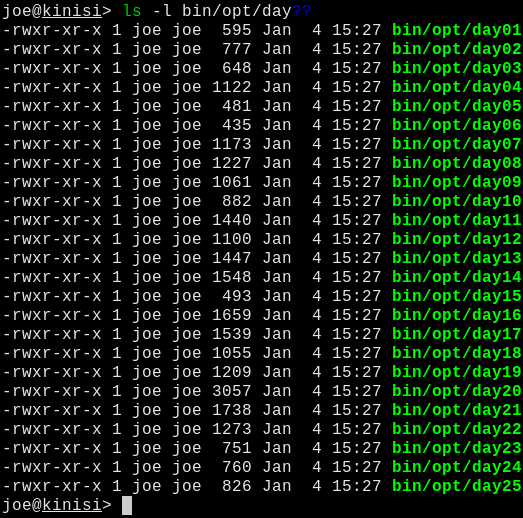
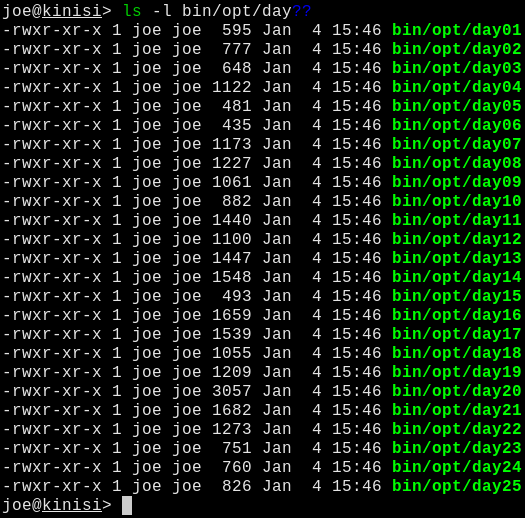
Update size information.

diff --git a/README.md b/README.md
@@ -5,7 +5,8 @@ to try to solve every problem in plain C, with no libraries, using only `read`,
 `write` and `exit` to interact with the outside world. The result of this is
 very tiny binaries:
 
-![Most binaries are under 2KiB, some are under 500B](sizes.png)
+![Most binaries are under 2KiB, some are under 500B, and the total size of all
+binaries is under 28KiB](sizes.png)
 
 ## Build
 
